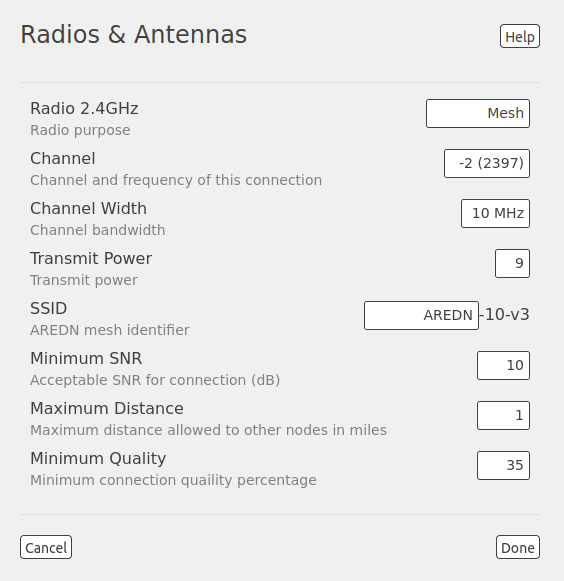
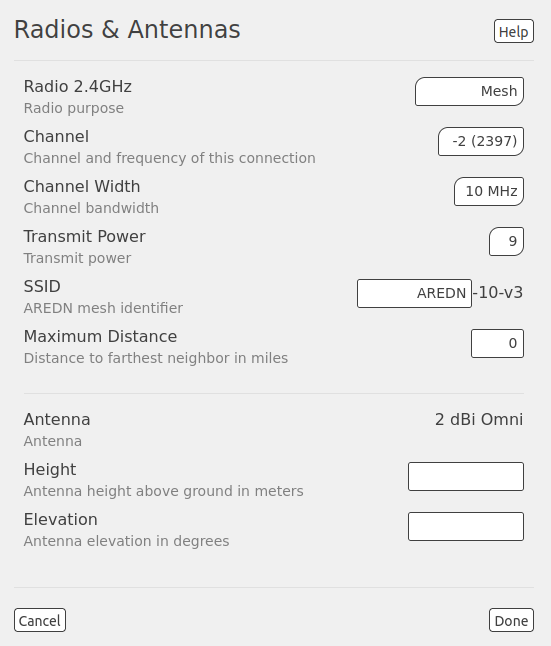
add new radio modes (#459)

diff --git a/arednGettingStarted/node_admin.rst b/arednGettingStarted/node_admin.rst
@@ -535,9 +535,23 @@ If your device has two radios, you can configure them separately but you cannot 
 
 |
 
-Click in the first field on the right to set the radio's purpose. You can choose one of several different radio functions from the dropdown list. ``Off`` disables the radio.
+Click in the first field on the right to set the radio's purpose. You can choose one of several different radio functions from the dropdown list.
 
-Mesh Radio settings
+  :Mesh: Typical AREDN® mesh mode which uses wifi *ad hoc* peer-to-peer networking to create a mesh network.
+
+  :Mesh PtMP: Uses wifi *infrastructure* networking to limit communication between a centralized **AP** and one or more **Station** nodes.
+
+  :Mesh PtP: Uses wifi *infrastructure* networking to limit communication to a single **AP - Station** pair.
+
+  :Mesh Station: Allows you to define a wifi *infrastructure* mode **Station** that will communicate to either type of **AP** defined above.
+
+  :LAN Hotspot: Configures the radio as a standard `802.11 <https://en.wikipedia.org/wiki/IEEE_802.11>`_ FCC Part 15 wifi AP on your node's LAN network.
+
+  :WAN Client: Configures the radio as a standard `802.11 <https://en.wikipedia.org/wiki/IEEE_802.11>`_ FCC Part 15 wifi client which accesses a wifi Internet gateway for its WAN.
+
+  :Off: Disables the radio
+
+Mesh settings
 +++++++++++++++++++
 
 This option configures the radio to link with other nodes via RF across the mesh network.
@@ -564,21 +578,36 @@ Transmit Power
 SSID Setting
   The default SSID is provided in the field at the right. Typically you will not need to change this default unless you have a specific reason for putting radios on a non-default SSID to filter their traffic. The SSID is analogous to a CTCSS tone; radios with different SSIDs but using the same channel may generate RF energy that causes interference, even though the radios will not be decoding each other's signals.
 
-All of the following settings will be visible when LQM is enabled. If LQM is disabled, only the *Maximum Distance* setting will be visible.
+Maximum Distance
+  This is the maximum distance between nodes at which you can expect to achieve a usable radio link. The default value is 50 miles / 80 kilometers, but you can adjust this setting if your node is only able to maintain a usable radio link with nearby nodes. The distance can be limited in order to prevent distant nodes from intermittently connecting to your node due to changes in atmospheric (or other) conditions. Communicating with these distant nodes uses more radio time and can negatively impact local communications.
+
+The following settings will be visible when LQM is enabled.
 
 Minimum SNR
   This is the minimum Signal-to-Noise ratio that you require in order to reliably pass radio data between nodes. The default is 15 dB, but you can lower this value if you require your node to continue passing data even on links with reduced signal characteristics.
 
-Maximum Distance
-  This is the maximum distance between nodes at which you can expect to achieve a usable radio link. The default value is 50 miles / 80 kilometers, but you can adjust this setting if your node is only able to maintain a usable radio link with nearby nodes. The distance can be limited in order to prevent distant nodes from intermittently connecting to your node due to changes in atmospheric (or other) conditions. Communicating with these distant nodes uses more radio time and can negatively impact local communications.
-
 Minimum Quality
   This is the minimum link quality required in order to reliably pass data between nodes, and the default value is ``35%``. This is calculated as the moving average of total sent packets over total sent packets plus retransmissions. For example, if a node must send every packet twice for it to be successfully received, the link quality would be 50%.
 
-LAN Hotspot Radio settings
+Mesh PtMP settings
+++++++++++++++++++
+
+This configures the radio as a wifi *infrastructure* mode **AP** which can be accessed by one or more designated **Station** nodes. In this mode the SSID will include the channel being used for the links. **Station** nodes cannot communicate directly with each other but must go through the **AP**.
+
+Mesh PtP settings
++++++++++++++++++
+
+This configures the radio as a wifi *infrastructure* mode **AP** which can be accessed by a single designated **Station** node. In this mode the SSID will include the channel being used for the link, and a field appears which specifies the MAC Address of the **Station** node that is allowed to peer with this PtP **AP**.
+
+Mesh Station settings
++++++++++++++++++++++
+
+This configures the radio as a wifi *infrastructure* mode **Station** which can connect to a designated PtMP or PtP **AP** node. In this mode the SSID will include the channel being used for the link.
+
+LAN Hotspot settings
 ++++++++++++++++++++++++++
 
-This option configures the radio as a standard `802.11 <https://en.wikipedia.org/wiki/IEEE_802.11>`_ FCC Part 15 wifi hotspot for your node's LAN network. Any device that connects to your node using its wifi hotspot will receive an IP address on your node's LAN subnet.
+This configures the radio as a standard `802.11 <https://en.wikipedia.org/wiki/IEEE_802.11>`_ FCC Part 15 wifi hotspot on your node's LAN network. Any device that connects to your node using this wifi AP will receive an IP address on your node's LAN subnet.
 
 .. image:: _images/admin-radio-2.png
  :alt: Admin Radio Settings 2
@@ -596,10 +625,10 @@ Encryption
 Password
   Click in the field to the right to enter a valid wifi password for accessing your node's hotspot. You can click the *eye* icon at the right of the password fields to toggle between hidden and visible text.
 
-WAN Client Radio settings
+WAN Client settings
 +++++++++++++++++++++++++
 
-This option configures the radio as a wifi WAN client to an available Internet gateway. This can be useful for providing Internet access to your node via wifi rather than requiring an Ethernet cable plugged into the node's WAN port. Enabling a radio as a *WAN Client* will disable VLAN1 on your node, so Internet access will no longer be possible through the physical WAN port.
+This configures the radio as a standard `802.11 <https://en.wikipedia.org/wiki/IEEE_802.11>`_ FCC Part 15 wifi client which can connect to a wifi AP. This is used to provide WAN Internet access to your node via wifi rather than requiring an Ethernet cable plugged into the node's WAN port. Enabling a radio as a *WAN Client* will disable VLAN1 on your node, so Internet access will no longer be possible through the physical WAN port.
 
 .. image:: _images/admin-radio-3.png
  :alt: Admin Radio Settings 3
@@ -651,7 +680,7 @@ Minimum Distance
 RTS Threshold
   The packet size in bytes triggering RTS/CTS when LQM detects hidden nodes. The default value is ``1`` which means all packets will trigger RTS/CTS.
 
-Maximum Packet Size
+Max Packet Size
   The maximum size of a packet which is sent over wifi. The value is between 256 and 1500 with a default of ``1500`` bytes. Decreasing this value can improve link quality in some cases, especially in noisy environments with long distance connections.
 
 SNR Margin
